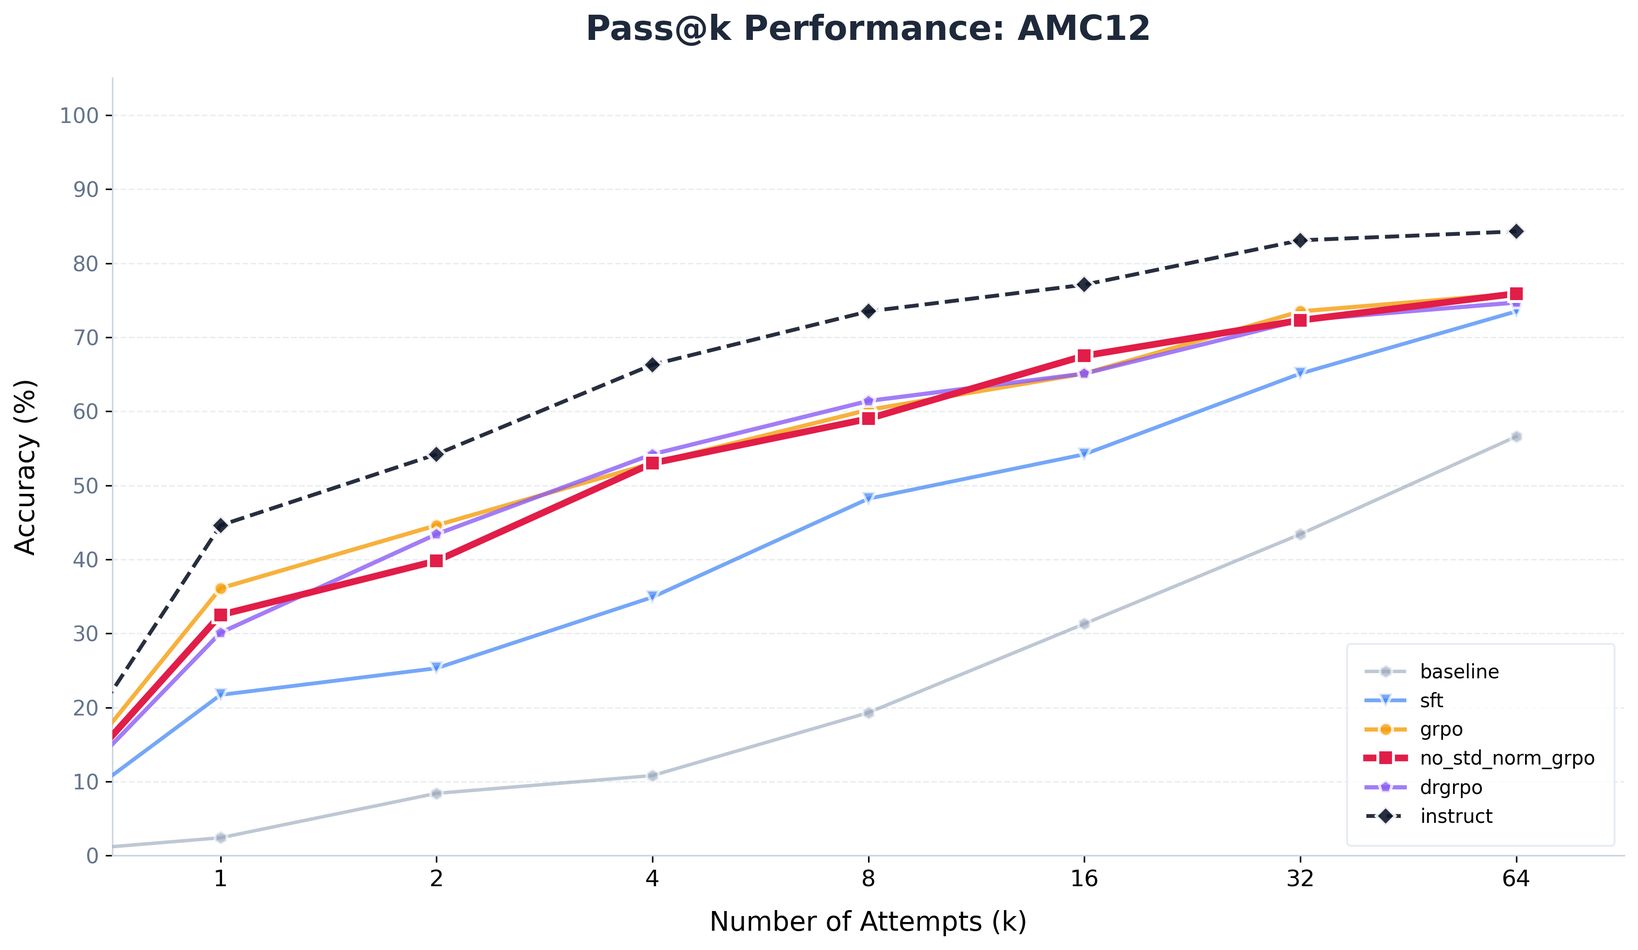
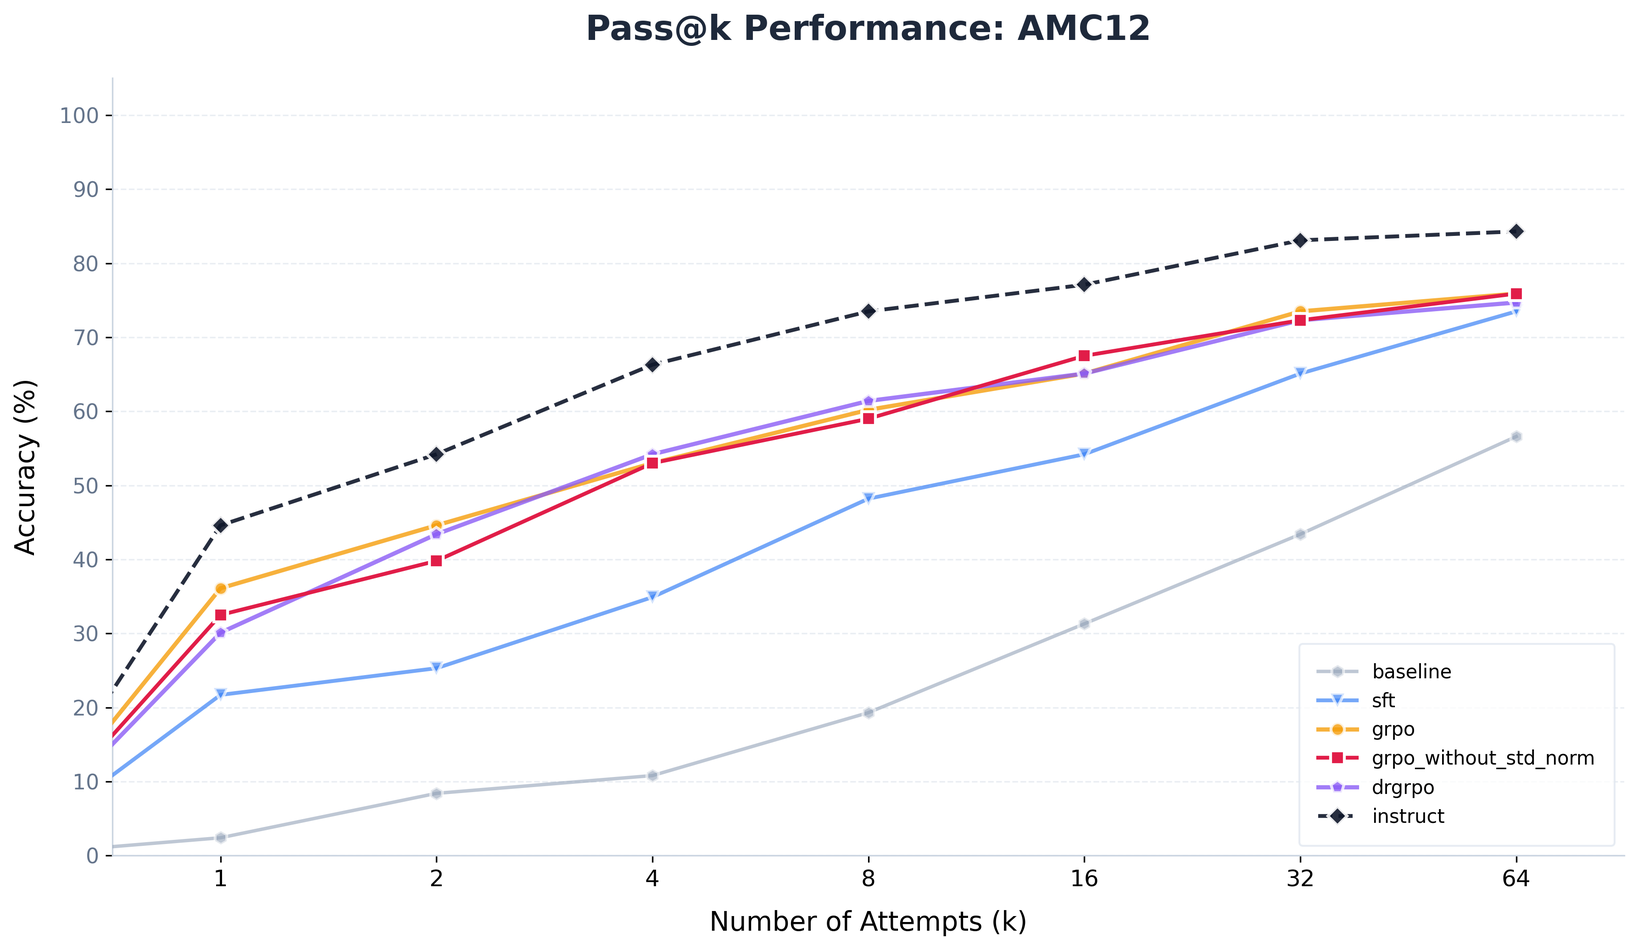
update readme

diff --git a/assignment5-alignment/cs336_alignment/plotting/plot_passk.py b/assignment5-alignment/cs336_alignment/plotting/plot_passk.py
@@ -10,7 +10,7 @@ def plot_pass_k_curve(results_list, task_name: str, show_k_list=[1, 2, 4, 8], te
     # --- 1. 定义专业配色与样式配置 ---
     # 颜色字典：确保不同实验版本颜色固定，方便对比
     STYLE_CONFIG = {
-        'no_std_norm_grpo': {'color': '#E11D48', 'z': 20, 'lw': 3.5, 'marker': 's', 'alpha': 1.0},  # 核心实验：玫瑰红
+        'grpo_without_std_norm': {'color': '#E11D48', 'z': 20, 'lw': 2.0, 'marker': 's', 'alpha': 1.0},  # 核心实验：玫瑰红
         'instruct': {'color': '#0F172A', 'z': 15, 'lw': 2.0, 'marker': 'D', 'alpha': 0.9, 'ls': '--'},  # 官方：深蓝黑
         'drgrpo': {'color': '#8B5CF6', 'z': 10, 'lw': 2.2, 'marker': 'p', 'alpha': 0.8},  # 紫色
         'grpo': {'color': '#F59E0B', 'z': 10, 'lw': 2.2, 'marker': 'o', 'alpha': 0.8},  # 琥珀色
@@ -149,39 +149,39 @@ if __name__ == "__main__":
 
     sft_math_test_pass8_result      = {'sft'     : (0.445, 0.587, 0.654, 0.695, 0.722, 0.743, 0.758, 0.770)}
 
-    no_std_norm_grpo_full_pass8_result   = {'no_std_norm_grpo'  : (0.619, 0.731, 0.780, 0.803, 0.821, 0.833, 0.843, 0.851)}
+    grpo_without_std_norm_math_test_pass8_result   = {'grpo_without_std_norm'  : (0.619, 0.731, 0.780, 0.803, 0.821, 0.833, 0.843, 0.851)}
 
     grpo_math_test_pass8_result = {'grpo': (0.598, 0.721, 0.769, 0.795, 0.814, 0.825, 0.838, 0.847)}
 
     drgrpo_math_test_pass8_result = {'drgrpo': (0.585, 0.714, 0.760, 0.791, 0.809, 0.823, 0.835, 0.844)}
 
-    baseline_500_pass64_result = {'baseline': (0.144, 0.262, 0.320, 0.414, 0.482, 0.524, 0.578, 0.614,
-                                               0.642, 0.664, 0.700, 0.710, 0.714, 0.734, 0.750, 0.758,
-                                               0.774, 0.784, 0.790, 0.800, 0.806, 0.814, 0.818, 0.822,
-                                               0.826, 0.828, 0.832, 0.840, 0.846, 0.854, 0.858, 0.862,
-                                               0.864, 0.868, 0.870, 0.874, 0.878, 0.878, 0.882, 0.886,
-                                               0.890, 0.892, 0.896, 0.896, 0.896, 0.898, 0.902, 0.902,
-                                               0.902, 0.904, 0.906, 0.906, 0.906, 0.906, 0.908, 0.908,
-                                               0.910, 0.910, 0.910, 0.912, 0.912, 0.914, 0.914, 0.916)}
+    baseline_math500_pass64_result = {'baseline': (0.144, 0.262, 0.320, 0.414, 0.482, 0.524, 0.578, 0.614,
+                                                   0.642, 0.664, 0.700, 0.710, 0.714, 0.734, 0.750, 0.758,
+                                                   0.774, 0.784, 0.790, 0.800, 0.806, 0.814, 0.818, 0.822,
+                                                   0.826, 0.828, 0.832, 0.840, 0.846, 0.854, 0.858, 0.862,
+                                                   0.864, 0.868, 0.870, 0.874, 0.878, 0.878, 0.882, 0.886,
+                                                   0.890, 0.892, 0.896, 0.896, 0.896, 0.898, 0.902, 0.902,
+                                                   0.902, 0.904, 0.906, 0.906, 0.906, 0.906, 0.908, 0.908,
+                                                   0.910, 0.910, 0.910, 0.912, 0.912, 0.914, 0.914, 0.916)}
 
-    sft_500_pass64_result      = {'sft'     : (0.668, 0.816, 0.874, 0.896, 0.914, 0.926, 0.936, 0.942,
-                                               0.944, 0.950, 0.952, 0.952, 0.954, 0.956, 0.956, 0.958,
-                                               0.960, 0.962, 0.962, 0.964, 0.968, 0.970, 0.970, 0.970,
-                                               0.970, 0.970, 0.972, 0.972, 0.974, 0.974, 0.976, 0.976,
-                                               0.976, 0.976, 0.976, 0.976, 0.976, 0.978, 0.978, 0.978,
-                                               0.978, 0.980, 0.982, 0.982, 0.982, 0.982, 0.982, 0.982,
-                                               0.982, 0.982, 0.982, 0.982, 0.982, 0.982, 0.982, 0.982,
-                                               0.982, 0.982, 0.982, 0.982, 0.982, 0.982, 0.982, 0.982)}
+    sft_math500_pass64_result      = {'sft'     : (0.516, 0.628, 0.688, 0.708, 0.732, 0.746, 0.758, 0.772,
+                                                   0.784, 0.790, 0.798, 0.798, 0.804, 0.808, 0.812, 0.818,
+                                                   0.826, 0.830, 0.830, 0.830, 0.832, 0.834, 0.838, 0.838,
+                                                   0.840, 0.846, 0.850, 0.854, 0.856, 0.860, 0.864, 0.864,
+                                                   0.864, 0.864, 0.866, 0.868, 0.870, 0.872, 0.878, 0.878,
+                                                   0.880, 0.882, 0.884, 0.886, 0.892, 0.894, 0.894, 0.896,
+                                                   0.896, 0.896, 0.896, 0.896, 0.898, 0.898, 0.898, 0.900,
+                                                   0.904, 0.904, 0.904, 0.904, 0.906, 0.906, 0.906, 0.906)}
 
-    no_std_norm_grpo_500_pass64_result   = {'no_std_norm_grpo'  :
-                                              (0.834, 0.916, 0.952, 0.956, 0.962, 0.966, 0.966, 0.968,
-                                               0.968, 0.972, 0.974, 0.974, 0.974, 0.974, 0.974, 0.974,
-                                               0.974, 0.976, 0.976, 0.976, 0.976, 0.976, 0.976, 0.976,
-                                               0.976, 0.976, 0.976, 0.976, 0.976, 0.978, 0.978, 0.980,
-                                               0.980, 0.980, 0.980, 0.980, 0.980, 0.980, 0.980, 0.980,
-                                               0.980, 0.980, 0.980, 0.982, 0.982, 0.982, 0.982, 0.984,
-                                               0.984, 0.984, 0.984, 0.986, 0.986, 0.988, 0.988, 0.988,
-                                               0.988, 0.988, 0.988, 0.988, 0.988, 0.988, 0.988, 0.988)}
+    grpo_without_std_norm_math500_pass64_result   = {'grpo_without_std_norm'  :
+                                                 (0.606, 0.716, 0.758, 0.774, 0.788, 0.812, 0.826, 0.838,
+                                                  0.850, 0.866, 0.870, 0.876, 0.880, 0.880, 0.882, 0.882,
+                                                  0.882, 0.884, 0.886, 0.894, 0.898, 0.898, 0.898, 0.900,
+                                                  0.904, 0.912, 0.912, 0.912, 0.912, 0.912, 0.912, 0.912,
+                                                  0.912, 0.916, 0.920, 0.920, 0.922, 0.922, 0.924, 0.924,
+                                                  0.924, 0.924, 0.924, 0.924, 0.926, 0.926, 0.928, 0.928,
+                                                  0.928, 0.930, 0.930, 0.930, 0.930, 0.930, 0.930, 0.930,
+                                                  0.932, 0.932, 0.932,0.932, 0.932, 0.934, 0.934, 0.936)}
 
     baseline_aime24_pass64_result = {'baseline':(0.000, 0.000, 0.000, 0.000, 0.000, 0.000, 0.000, 0.000,
                                                  0.000, 0.000, 0.033, 0.033, 0.033, 0.033, 0.033, 0.067,
@@ -203,7 +203,7 @@ if __name__ == "__main__":
                                                  0.233, 0.233, 0.267, 0.267, 0.267, 0.267, 0.267, 0.267)}
 
 
-    no_std_norm_grpo_aime24_pass64_result  = {'no_std_norm_grpo':
+    grpo_without_std_norm_aime24_pass64_result  = {'grpo_without_std_norm':
                                                 (0.033, 0.033, 0.067, 0.133, 0.133, 0.167, 0.167, 0.200,
                                                  0.200, 0.200, 0.233, 0.233, 0.267, 0.300, 0.333, 0.367,
                                                  0.367, 0.367, 0.367, 0.367, 0.367, 0.367, 0.367, 0.367,
@@ -233,7 +233,7 @@ if __name__ == "__main__":
                                                  0.233, 0.233, 0.233, 0.233, 0.233, 0.233, 0.233, 0.233,
                                                  0.233, 0.233, 0.233, 0.233, 0.233, 0.233, 0.233, 0.233)}
 
-    no_std_norm_grpo_aime25_pass64_result = {'no_std_norm_grpo'   :
+    grpo_without_std_norm_aime25_pass64_result = {'grpo_without_std_norm'   :
                                                 (0.033, 0.100, 0.100, 0.100, 0.167, 0.167, 0.200, 0.200,
                                                  0.200, 0.200, 0.233, 0.233, 0.233, 0.233, 0.233, 0.233,
                                                  0.233, 0.233, 0.233, 0.233, 0.233, 0.233, 0.233, 0.233,
@@ -261,7 +261,7 @@ if __name__ == "__main__":
                                                  0.699, 0.699, 0.699, 0.699, 0.699, 0.711, 0.711, 0.723,
                                                  0.723, 0.735, 0.735, 0.735, 0.735, 0.735, 0.735, 0.735)}
 
-    no_std_norm_grpo_AMC12_pass64_result   = {'no_std_norm_grpo'  :
+    grpo_without_std_norm_AMC12_pass64_result   = {'grpo_without_std_norm'  :
                                                 (0.325, 0.398, 0.470, 0.530, 0.554, 0.566, 0.566, 0.590,
                                                  0.602, 0.614, 0.627, 0.627, 0.651, 0.663, 0.675, 0.675,
                                                  0.675, 0.675, 0.687, 0.699, 0.699, 0.699, 0.699, 0.699,
@@ -273,14 +273,14 @@ if __name__ == "__main__":
 
     instruct_math_test_pass8_result = {'instruct':   (0.749, 0.809, 0.833, 0.849, 0.861, 0.872, 0.877, 0.882)}
 
-    instruct_500_pass64_result = {'instruct':   (0.920, 0.954, 0.968, 0.972, 0.972, 0.976, 0.976, 0.978,
-                                                 0.980, 0.982, 0.982, 0.982, 0.982, 0.982, 0.982, 0.982,
-                                                 0.982, 0.982, 0.982, 0.982, 0.982, 0.984, 0.984, 0.984,
-                                                 0.984, 0.984, 0.984, 0.984, 0.984, 0.984, 0.984, 0.984,
-                                                 0.984, 0.984, 0.986, 0.986, 0.988, 0.990, 0.990, 0.990,
-                                                 0.990, 0.990, 0.990, 0.990, 0.990, 0.990, 0.990, 0.990,
-                                                 0.990, 0.990, 0.990, 0.990, 0.990, 0.990, 0.990, 0.990,
-                                                 0.990, 0.990, 0.990, 0.990, 0.990, 0.990, 0.990, 0.990)}
+    instruct_math500_pass64_result = {'instruct':   (0.746, 0.802, 0.830, 0.846, 0.850, 0.862, 0.868, 0.870,
+                                                     0.872, 0.878, 0.886, 0.890, 0.890, 0.890, 0.890, 0.892,
+                                                     0.892, 0.898, 0.900, 0.902, 0.906, 0.906, 0.908, 0.910,
+                                                     0.912, 0.916, 0.918, 0.918, 0.918, 0.920, 0.920, 0.922,
+                                                     0.922, 0.924, 0.926, 0.926, 0.928, 0.930, 0.930, 0.930,
+                                                     0.932, 0.932, 0.934, 0.934, 0.934, 0.934, 0.934, 0.934,
+                                                     0.934, 0.934, 0.934, 0.934, 0.934, 0.934, 0.934, 0.934,
+                                                     0.934, 0.934, 0.936, 0.936, 0.938, 0.938, 0.938, 0.938)}
 
     instruct_AMC_12_pass64_result = {'instruct': (0.446, 0.542, 0.639, 0.663, 0.675, 0.699, 0.735, 0.735,
                                                   0.747, 0.747, 0.747, 0.747, 0.759, 0.771, 0.771, 0.771,
@@ -309,14 +309,14 @@ if __name__ == "__main__":
                                                   0.400, 0.400, 0.400, 0.400, 0.400, 0.400, 0.400, 0.400,
                                                   0.400, 0.400, 0.400, 0.400, 0.400, 0.400, 0.400, 0.400)}
 
-    grpo_500_pass64_result        = {'grpo':     (0.808, 0.920, 0.942, 0.952, 0.958, 0.966, 0.972, 0.972,
-                                                  0.980, 0.980, 0.982, 0.984, 0.984, 0.984, 0.986, 0.988,
-                                                  0.988, 0.988, 0.988, 0.988, 0.988, 0.988, 0.988, 0.990,
-                                                  0.990, 0.990, 0.990, 0.990, 0.992, 0.992, 0.992, 0.992,
-                                                  0.992, 0.992, 0.992, 0.992, 0.992, 0.992, 0.992, 0.994,
-                                                  0.994, 0.994, 0.994, 0.994, 0.994, 0.994, 0.994, 0.994,
-                                                  0.994, 0.994, 0.994, 0.994, 0.994, 0.994, 0.994, 0.994,
-                                                  0.994, 0.994, 0.994, 0.994, 0.994, 0.994, 0.994, 0.994)}
+    grpo_math500_pass64_result    = {'grpo':     (0.590, 0.704, 0.752, 0.778, 0.802, 0.808, 0.820, 0.824,
+                                                  0.830, 0.844, 0.848, 0.850, 0.860, 0.868, 0.872, 0.876,
+                                                  0.876, 0.878, 0.882, 0.884, 0.888, 0.890, 0.892, 0.896,
+                                                  0.896, 0.898, 0.898, 0.898, 0.900, 0.902, 0.908, 0.908,
+                                                  0.908, 0.910, 0.910, 0.910, 0.910, 0.912, 0.912, 0.912,
+                                                  0.914, 0.914, 0.914, 0.916, 0.916, 0.918, 0.918, 0.918,
+                                                  0.918, 0.918, 0.918, 0.918, 0.918, 0.918, 0.918, 0.918,
+                                                  0.920, 0.920, 0.920, 0.920, 0.922, 0.924, 0.926, 0.926)}
 
     grpo_AMC12_pass64_result      = {'grpo':      (0.361, 0.446, 0.482, 0.530, 0.554, 0.590, 0.590, 0.602,
                                                    0.614, 0.639, 0.651, 0.651, 0.651, 0.651, 0.651, 0.651,
@@ -383,11 +383,11 @@ if __name__ == "__main__":
                                                     0.367, 0.367, 0.367, 0.367, 0.367, 0.367, 0.367, 0.367,
                                                     0.367, 0.367, 0.367, 0.367, 0.367, 0.367, 0.367, 0.367)}
 
-    math_test_pass8_results  = [baseline_math_test_pass8_result, sft_math_test_pass8_result, no_std_norm_grpo_full_pass8_result, grpo_math_test_pass8_result, drgrpo_math_test_pass8_result, instruct_math_test_pass8_result]
-    math500_pass64_results   = [baseline_500_pass64_result, sft_500_pass64_result, grpo_500_pass64_result, no_std_norm_grpo_500_pass64_result, drgrpo_math500_pass64_result, instruct_500_pass64_result]
-    amc12_pass64_results     = [baseline_AMC12_pass64_result, sft_AMC12_pass64_result, grpo_AMC12_pass64_result, no_std_norm_grpo_AMC12_pass64_result, drgrpo_amc_pass64_result, instruct_AMC_12_pass64_result]
-    aime_2025_pass64_results = [baseline_aime25_pass64_result, sft_aime25_pass64_result, grpo_aime25_pass64_result, no_std_norm_grpo_aime25_pass64_result, drgrpo_aime25_pass64_result, instruct_aime25_pass64_result]
-    aime_2024_pass64_results = [baseline_aime24_pass64_result, sft_aime24_pass64_result, grpo_aime24_pass64_result, no_std_norm_grpo_aime24_pass64_result, drgrpo_aime24_pass64_result, instruct_aime24_pass64_result]
+    math_test_pass8_results  = [baseline_math_test_pass8_result, sft_math_test_pass8_result, grpo_without_std_norm_math_test_pass8_result, grpo_math_test_pass8_result, drgrpo_math_test_pass8_result, instruct_math_test_pass8_result]
+    math500_pass64_results   = [baseline_math500_pass64_result, sft_math500_pass64_result, grpo_math500_pass64_result, grpo_without_std_norm_math500_pass64_result, drgrpo_math500_pass64_result, instruct_math500_pass64_result]
+    amc12_pass64_results     = [baseline_AMC12_pass64_result, sft_AMC12_pass64_result, grpo_AMC12_pass64_result, grpo_without_std_norm_AMC12_pass64_result, drgrpo_amc_pass64_result, instruct_AMC_12_pass64_result]
+    aime_2025_pass64_results = [baseline_aime25_pass64_result, sft_aime25_pass64_result, grpo_aime25_pass64_result, grpo_without_std_norm_aime25_pass64_result, drgrpo_aime25_pass64_result, instruct_aime25_pass64_result]
+    aime_2024_pass64_results = [baseline_aime24_pass64_result, sft_aime24_pass64_result, grpo_aime24_pass64_result, grpo_without_std_norm_aime24_pass64_result, drgrpo_aime24_pass64_result, instruct_aime24_pass64_result]
 
 
 

diff --git a/assignment5-alignment/cs336_alignment/collecting_statistics/get_results_stat.py b/assignment5-alignment/cs336_alignment/collecting_statistics/get_results_stat.py
@@ -72,6 +72,7 @@ def main():
         ("grpo", "gsm8k_pass_1", 1),
         ("grpo_no_std_norm", "gsm8k_pass_1", 1),
         ("drgrpo", "gsm8k_pass_1", 1),
+        ("drgrpo_best", "gsm8k_pass_1", 1),
         ("instruct", "gsm8k_pass_1", 1),
 
         # --- MATH-500 ---
@@ -80,6 +81,7 @@ def main():
         ("grpo", "math500_pass_64", 64),
         ("grpo_no_std_norm", "math500_pass_64", 64),
         ("drgrpo", "math500_pass_64", 64),
+        ("drgrpo_best", "math500_pass_64", 64),
         ("instruct", "math500_pass_64", 64),
 
         # --- MathTest ---
@@ -88,10 +90,9 @@ def main():
         ("grpo", "MathTest_pass_8", 8),
         ("grpo_no_std_norm", "MathTest_pass_8", 8),
         ("drgrpo", "MathTest_pass_8", 8),
-        ("instruct", "MathTest_pass_8", 64),
+        ("drgrpo_best", "MathTest_pass_8", 8),
+        ("instruct", "MathTest_pass_8", 8),
 
-        # --- AMC ---
-        ("baseline", "math500_pass_64", 64),
 
         # --- AMC (American Mathematics Competitions) ---
         ("baseline", "amc_pass_64", 64),
@@ -99,6 +100,7 @@ def main():
         ("grpo", "amc_pass_64", 64),
         ("grpo_no_std_norm", "amc_pass_64", 64),
         ("drgrpo", "amc_pass_64", 64),
+        ("drgrpo_best", "amc_pass_64", 64),
         ("instruct", "amc_pass_64", 64),
 
         # --- AIME 2024 ---
@@ -107,6 +109,7 @@ def main():
         ("grpo", "aime24_pass_64", 64),
         ("grpo_no_std_norm", "aime24_pass_64", 64),
         ("drgrpo", "aime24_pass_64", 64),
+        ("drgrpo_best", "aime24_pass_64", 64),
         ("instruct", "aime24_pass_64", 64),
 
         # --- AIME 2025 ---
@@ -115,6 +118,7 @@ def main():
         ("grpo", "aime25_pass_64", 64),
         ("grpo_no_std_norm", "aime25_pass_64", 64),
         ("drgrpo", "aime25_pass_64", 64),
+        ("drgrpo_best", "aime25_pass_64", 64),
         ("instruct", "aime25_pass_64", 64),
     ]
 

diff --git a/assignment5-alignment/cs336_alignment/grpo.py b/assignment5-alignment/cs336_alignment/grpo.py
@@ -227,7 +227,7 @@ def grpo_microbatch_train_step(policy_log_probs: torch.Tensor,
     step_loss, metadata = compute_policy_gradient_loss(policy_log_probs, loss_type, raw_rewards, advantages, old_log_probs, cliprange)
     # 应用掩码并计算每个样本的平均损失，只计算 response 部分的 loss
     if not remove_length_norm:
-        # grpo做法，按照样本长度对每个advantage进行归一化
+        # grpo做法，按照样本长度对每个loss进行归一化
         perexample_loss = masked_mean(step_loss, response_mask, dim=-1)
     else:
         # drgrpo做法，按照统一分母归一化

diff --git a/assignment5-alignment/README_zh-CN.md b/assignment5-alignment/README_zh-CN.md
@@ -1,20 +1,3 @@
-> 思路/结构整理
->
-> 已有数据： 
->
-> 不同sft 数据策略在不同训练样本数后的表现表格
-> 
-> baseline, sft, rl三种模型的MATH-500Pass@1 response尾段截取，明显sft, rl规整
-> 
-> baseline,sft,所有v6 RL模型 step 450, 官方Instruct模型的 综合评测(Pass@1/Pass@64)表格
-> 
-> 对应上面表格Pass@64部分每个模型的曲线图
->
-> 三种RL在MATH-500上Pass@8和在AIME24上Pass@64的ckpt-step-(50, 400, 50)动态图，分为单个指标和整合版，其中grpo缺失150-350的ckpt/dynamics，grpo_no_std_norm缺失100-300。
-> 
-> 三种RL的训练时wandb监控图，包括训练时的平均熵，最佳reward动态，平均reward动态，format_rate动态，近似KL散度，平均响应长度，reward标准差，梯度范数，PPO风裁剪比例；训练中评测(一次仅有4个样本, ans reward参考性不高)reward动态, format_rate 动态, 响应长度动态
->
-
 # CS336 作业 5: 对齐与推理强化学习 (R1-Zero 复现)
 
 
@@ -121,11 +104,11 @@
 |    Dataset    | Metric  | 🔵Base | 🟠 SFT |   🔴GRPO   | 🟢no-std-normGRPO |  Dr.GRPO   | Dr.GRPO(350 step) |   Inst.    |                $\nabla$Gap                 |
 | :-----------: | :-----: | :---: | :---: | :-------: | :--------------: | :--------: | :---------------: | :--------: | :----------------------------------------: |
 | **GSM8K$^*$** | Pass@1  | 20.9% | 45.5% |   79.0%   |    **79.6%**     |   79.2%    |     **78.9%**     | **85.14%** |     <font color="red">**-5.5%**</font>     |
-| **MATH-500**  | Pass@1  | 14.4% | 66.8% |   80.8%   |    **83.4%**     |   55.4%    |     **57.0%**     | **92.00%** |  <span style="color:red">**-8.6%**</span>  |
+| **MATH-500**  | Pass@1  | 14.4% | 51.6% |   80.8%   |    **83.4%**     |   55.4%    |     **57.0%**     | **92.00%** |  <span style="color:red">**-8.6%**</span>  |
 | **MATH-Test** | Pass@1  | 12.3% | 44.1% |   59.8%   |    **61.2%**     |            |       58.2%       | **74.88%** | <span style="color:red">**-13.68%**</span> |
 |   **AMC12**   | Pass@1  | 2.4%  | 21.7% | **36.1%** |      32.5%       |   30.1%    |       30.1%       | **44.6%**  | <span style="color:red">**-12.1%**</span>  |
 |               |         |       |       |           |                  |            |                   |            |                                            |
-| **MATH-500**  | Pass@64 | 91.6% | 98.2% | **99.4%** |      98.8%       |   92.0%    |       92.2%       | **99.0%**  |  <span style="color:red">**-0.2%**</span>  |
+| **MATH-500**  | Pass@64 | 91.6% | 90.6% | **99.4%** |      98.8%       |   92.0%    |       92.2%       | **99.0%**  |  <span style="color:red">**-0.2%**</span>  |
 |   **AMC12**   | Pass@64 | 56.6% | 73.5% |   75.9%   |    **75.9%**     |   74.7%    |       77.1%       | **84.3%**  |  <span style="color:red">**-8.4%**</span>  |
 | **AIME 2024** | Pass@64 | 13.3% | 26.7% |   30.0%   |    **40.0%**     |   40.0%    |       33.3%       | **46.67%** | <span style="color:red">**-6.67%**</span>  |
 | **AIME 2025** | Pass@64 | 3.3%  | 23.3% |   30.0%   |      30.0%       | **36.67%** |       33.3%       | **40.00%** | <span style="color:red">**-10.0%**</span>  |

diff --git a/assignment4-data/README_zh-CN.md b/assignment4-data/README_zh-CN.md
@@ -213,7 +213,7 @@
 | **5,000** (Mid)    | 3.68               | 3.83             | 4.29                     | **4.10**             | 79.7               | 60.7                 |
 | **8,000**          | 3.52               | 3.63             | 4.26                     | **4.00**             | 71.0               | 54.7                 |
 | **11,000** (Final) | 3.47               | 3.58             | 4.23                     | **3.94**             | 68.5               | 51.5                 |
-| **`Δ` (Final)**    | -                  | *+0.11 (Higher)* | -                        | ***-0.10 (Better)*** |                    | ***-17.0 (Better)*** |
+| **`Δ` (Final)**    | -                  | *+0.11 (Higher)* | -                        | ***-0.27 (Better)*** |                    | ***-17.0 (Better)*** |
 
 
 
@@ -340,23 +340,25 @@
 `sample_cc_paths.py` 脚本用于从Common Crawl的路径清单中抽样，由于抽样脚本的随机种子固定，脚本支持**增量下载**，以避免多次下载时下载大量重复的wet文件。
 
 1.  **首次抽样**:
+    
     ```bash
-    # 从 wet.paths.gz 清单中抽样20个WET文件链接，并生成下载脚本 download_cc_batch_1.sh
+    # 从 wet.paths.gz 清单中抽样20个WET文件链接，并生成下载脚本 download_cc_batch_from_0_to_100.sh
+    # 和url文件 download_cc_batch_from_0_to_100.txt
     # 默认只下载WET文件, 如要下载对应的warc.gz文件，在后面添上 "--download_warc"
-    python -m cs336_data.sample_cc_path data/cc_path/wet.paths.gz -n 100 --output-script scripts/download_cc_batch_1.sh # --download_warc
+    python -m cs336_data.sample_cc_path data/cc_path/wet.paths.gz -n 100 --output-script scripts/download_cc_batch_start_0_add_100.sh # --download_warc
     ```
 2.  **后续增量抽样**:
     如果需要更多不重复的样本，可以使用 `--skip` 参数。
     
     ```bash
     # 在已抽样20个的基础上，再抽样100个全新的文件链接
-    python -m cs336_data.sample_cc_paths data/cc_path/wet.paths.gz -n 100 --skip 20  --output-script scripts/download_cc_batch_2.sh
+    python -m cs336_data.sample_cc_paths data/cc_path/wet.paths.gz -n 100 --skip 20  --output-script scripts/download_cc_batch_start_100_add_20.sh
     ```
 3.  **执行下载**:
     对每个生成的脚本执行后台下载任务。
     ```bash
-    chmod +x scripts/download_cc_batch_1.sh
-    nohup scripts/download_cc_batch_1.sh > cc_download_1.log 2>&1 &
+    chmod +x scripts/download_cc_batch_start_0_add_100.sh
+    nohup scripts/download_cc_batch_start_0_add_100.sh > cc_download_1.log 2>&1 &
     ```
 
 ### **步骤二：构建与训练质量分类器**
